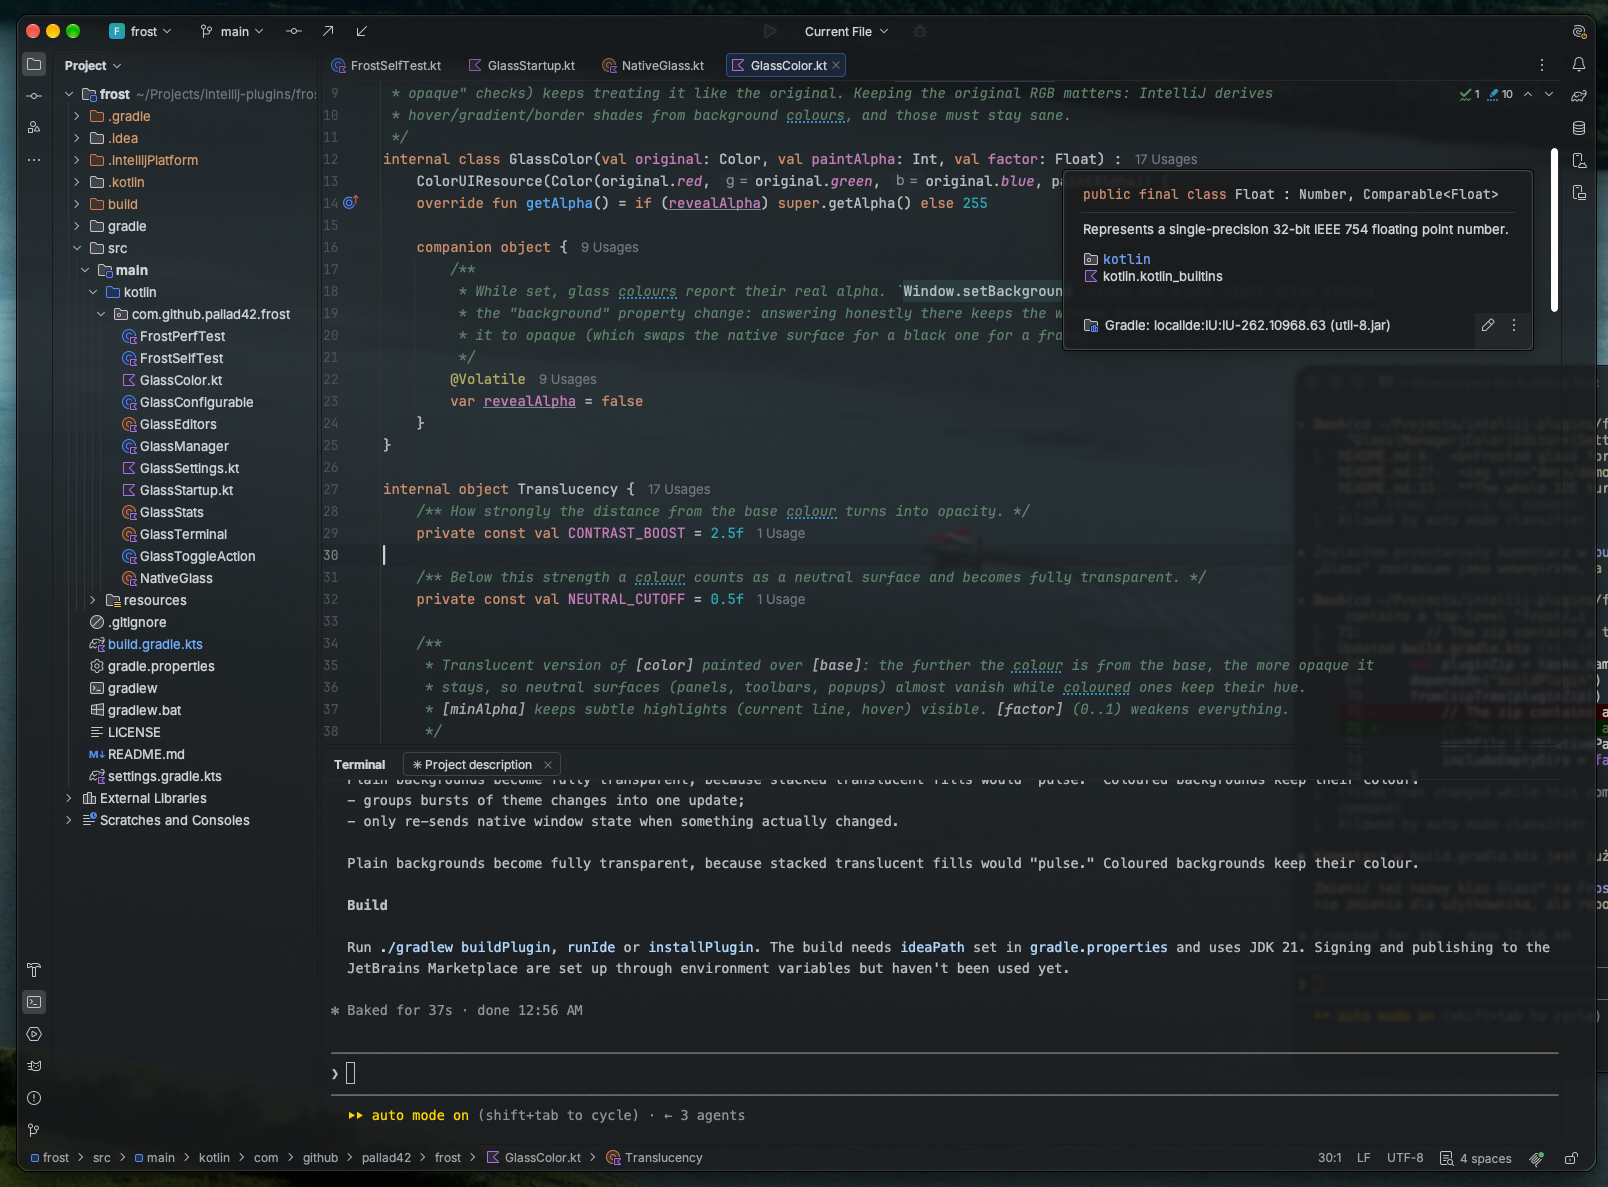
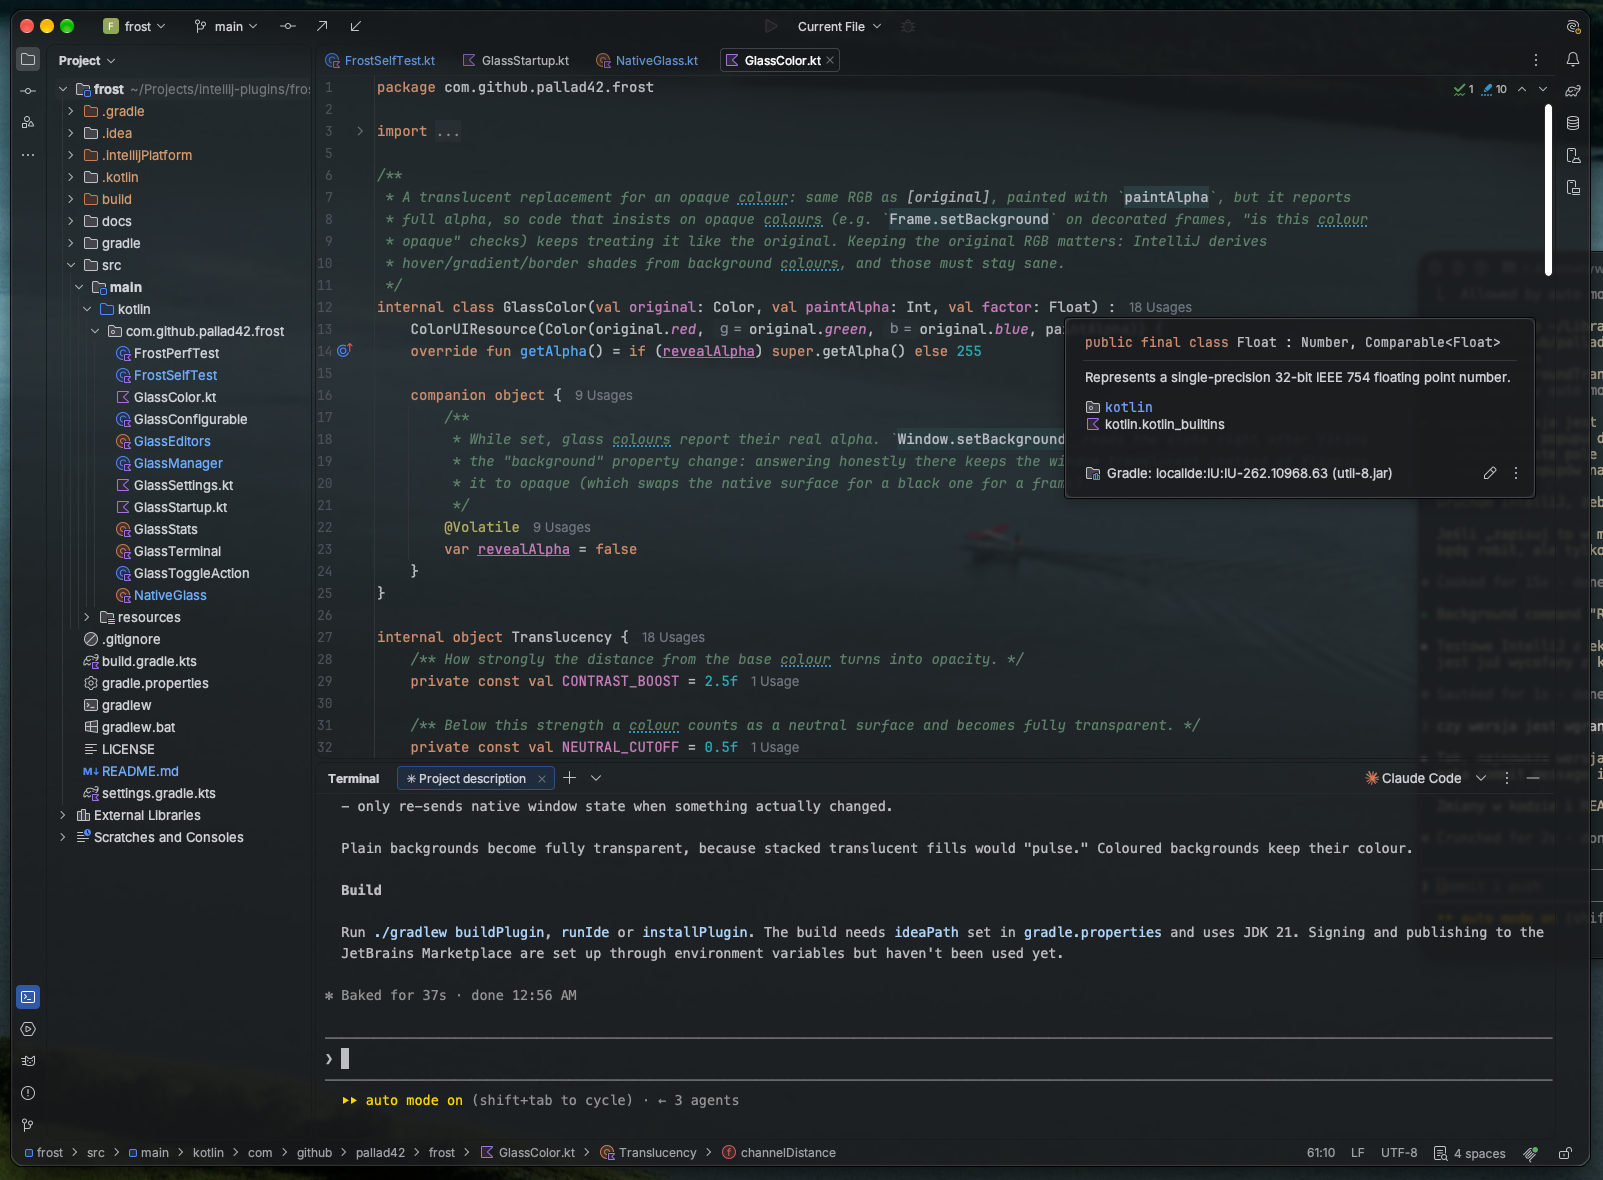
Fix popup corner, editor text fields and popup blur; README FAQ and screenshot
- Overlay rule only for the window's root layered pane: the documentation popup's corner
  toolbar was treated as an overlay and got a solid patch.
- Editor text fields (commit message, search) force a solid background after creation:
  make it translucent again right after they finish setting up.
- Popups: the blur can only be set once the window is on screen; re-apply when shown.
- Self-test also opens Quick Documentation and dumps popup component trees.
- README: FAQ on Markdown preview and toolbar project gradient, drop window outline entry,
  new screenshot.

diff --git a/src/main/kotlin/com/github/pallad42/frost/FrostSelfTest.kt b/src/main/kotlin/com/github/pallad42/frost/FrostSelfTest.kt
@@ -2,12 +2,14 @@ package com.github.pallad42.frost
 
 import com.intellij.codeInsight.hint.HintManager
 import com.intellij.notification.NotificationGroupManager
+import com.intellij.openapi.actionSystem.ActionManager
 import com.intellij.notification.NotificationType
 import com.intellij.openapi.application.EDT
 import com.intellij.openapi.diagnostic.logger
 import com.intellij.openapi.editor.Editor
 import com.intellij.openapi.fileEditor.FileEditorManager
 import com.intellij.openapi.fileEditor.OpenFileDescriptor
+import com.intellij.openapi.project.DumbService
 import com.intellij.openapi.project.Project
 import com.intellij.openapi.project.guessProjectDir
 import com.intellij.openapi.startup.ProjectActivity
@@ -19,7 +21,12 @@ import com.intellij.ui.awt.RelativePoint
 import kotlinx.coroutines.Dispatchers
 import kotlinx.coroutines.delay
 import kotlinx.coroutines.withContext
+import java.awt.Component
+import java.awt.Container
+import java.awt.Frame
 import java.awt.Point
+import java.awt.Window
+import javax.swing.JComponent
 
 /**
  * Development aid, off unless the IDE runs with `-Dfrost.selftest=true` (`./gradlew runIde -Pfrost.selftest`):
@@ -31,6 +38,7 @@ class FrostSelfTest : ProjectActivity {
     override suspend fun execute(project: Project) {
         if (System.getProperty("frost.selftest") != "true") return
         delay(STEP_MS * 3)
+        DumbService.getInstance(project).waitForSmartMode()  // quick documentation needs indexes
         val editor = withContext(Dispatchers.EDT) { openEditor(project) } ?: return
         val steps = listOf<Pair<String, () -> Unit>>(
             "notification balloon" to {
@@ -51,6 +59,8 @@ class FrostSelfTest : ProjectActivity {
                     .show(editor.contentComponent) { _, _ -> Point(300, 200) }
             },
             "message popup" to { JBPopupFactory.getInstance().createMessage("Message popup over the code").showInBestPositionFor(editor) },
+            "quick documentation" to { showQuickDoc(project) },
+            "dump popup windows" to { dumpPopupWindows() },
         )
         for ((name, show) in steps) {
             withContext(Dispatchers.EDT) {
@@ -61,6 +71,35 @@ class FrostSelfTest : ProjectActivity {
             delay(STEP_MS)
         }
         log.info("Frost selftest: done")
+    }
+
+    /** Quick Documentation for `Float` in GlassColor.kt, like hovering it. */
+    private fun showQuickDoc(project: Project) {
+        val file = project.guessProjectDir()?.findFileByRelativePath("src/main/kotlin/com/github/pallad42/frost/GlassColor.kt") ?: return
+        val text = String(file.contentsToByteArray())
+        val offset = text.indexOf("Float)").takeIf { it >= 0 } ?: return
+        val docEditor = FileEditorManager.getInstance(project).openTextEditor(OpenFileDescriptor(project, file, offset), true) ?: return
+        val action = ActionManager.getInstance().getAction("QuickJavaDoc") ?: return
+        ActionManager.getInstance().tryToExecute(action, null, docEditor.contentComponent, "frost-selftest", true)
+    }
+
+    /** Logs every visible popup window's component tree: class, own background (real alpha) and opacity. */
+    private fun dumpPopupWindows() {
+        for (window in Window.getWindows().filter { it.isShowing && it !is Frame }) {
+            val sb = StringBuilder("Frost selftest: window ${window.javaClass.name} ${window.width}x${window.height}\n")
+            fun walk(c: Component, depth: Int) {
+                val bg = if (c.isBackgroundSet) c.background else null
+                val alpha = (bg as? GlassColor)?.paintAlpha ?: bg?.alpha
+                sb.append("  ".repeat(depth)).append(c.javaClass.name.substringAfterLast('.'))
+                    .append(" ${c.width}x${c.height}")
+                    .append(if (bg != null) " bg=#%06x a=%d".format(bg.rgb and 0xffffff, alpha) else "")
+                    .append(if (c is JComponent && c.isOpaque) " opaque" else "")
+                    .append('\n')
+                if (c is Container) c.components.forEach { walk(it, depth + 1) }
+            }
+            walk(window, 0)
+            log.info(sb.toString())
+        }
     }
 
     private fun openEditor(project: Project): Editor? {

diff --git a/src/main/kotlin/com/github/pallad42/frost/GlassManager.kt b/src/main/kotlin/com/github/pallad42/frost/GlassManager.kt
@@ -34,6 +34,7 @@ import java.lang.invoke.MethodType
 import java.util.WeakHashMap
 import javax.swing.JComponent
 import javax.swing.JLayeredPane
+import javax.swing.JRootPane
 import javax.swing.UIManager
 
 /**
@@ -124,7 +125,15 @@ class GlassManager : Disposable {
             is ContainerEvent -> if (event.id == ContainerEvent.COMPONENT_ADDED) GlassStats.measure("componentAdded") { glassifyTree(event.child, config) }
             is WindowEvent -> if (event.id == WindowEvent.WINDOW_ACTIVATED) refreshNative(event.window, config)
             is ComponentEvent -> when (event.id) {
-                ComponentEvent.COMPONENT_SHOWN -> dropLoadingSnapshot(event.component)
+                ComponentEvent.COMPONENT_SHOWN -> {
+                    dropLoadingSnapshot(event.component)
+                    // Popups get the blur only once they are on screen; AppKit orders them in asynchronously,
+                    // so check again right after showing and a moment later.
+                    (event.component as? Window)?.let { window ->
+                        refreshNative(window, config)
+                        javax.swing.Timer(120) { active?.let { refreshNative(window, it) } }.apply { isRepeats = false }.start()
+                    }
+                }
                 // JBR may recreate the native layer on resize or when moving to another display.
                 ComponentEvent.COMPONENT_RESIZED, ComponentEvent.COMPONENT_MOVED ->
                     (event.component as? Window)?.let { refreshNative(it, config) }
@@ -139,9 +148,14 @@ class GlassManager : Disposable {
         EditorFactory.getInstance().addEditorFactoryListener(object : EditorFactoryListener {
             override fun editorCreated(event: EditorFactoryEvent) {
                 active?.let { GlassStats.measure("editorCreated") { GlassEditors.apply(event.editor, it) } }
-                // The terminal installs its own highlighter right after creating the editor.
+                // Owners finish setting the editor up right after creating it: the terminal installs its own
+                // highlighter, text fields (commit message, search) force their own solid background.
                 ApplicationManager.getApplication().invokeLater {
-                    active?.let { if (!event.editor.isDisposed) GlassTerminal.apply(event.editor, it) }
+                    active?.let {
+                        if (event.editor.isDisposed) return@let
+                        GlassTerminal.apply(event.editor, it)
+                        GlassEditors.keepBackgroundTranslucent(event.editor, it)
+                    }
                 }
             }
         }, this)
@@ -334,6 +348,9 @@ class GlassManager : Disposable {
      */
     private fun isOverlayRoot(component: JComponent): Boolean {
         val pane = component.parent as? JLayeredPane ?: return false
+        // Only the window's own layered pane: IntelliJ also uses layered panes for layout (e.g. the corner toolbar
+        // of documentation popups), and those children are part of the surface, not overlays.
+        if (pane.parent !is JRootPane) return false
         return pane.getLayer(component) >= JLayeredPane.PALETTE_LAYER
     }
 

diff --git a/src/main/kotlin/com/github/pallad42/frost/NativeGlass.kt b/src/main/kotlin/com/github/pallad42/frost/NativeGlass.kt
@@ -45,7 +45,9 @@ internal object NativeGlass {
             Foundation.invoke(nsWindow, "setBackgroundColor:", Foundation.invoke("NSColor", "clearColor"))
             val cgTint = setContentLayerTint(nsWindow, tint)
             setBlurRadius(nsWindow, blurRadius)
-            applied[key] = Applied(layer?.toLong() ?: 0L, cgTint, tint.rgb, blurRadius)
+            // Only remember windows that are really on screen; others get re-applied once they are shown.
+            if (isOnScreen(nsWindow)) applied[key] = Applied(layer?.toLong() ?: 0L, cgTint, tint.rgb, blurRadius)
+            else applied.remove(key)
             if (LOG.isDebugEnabled) LOG.debug("Frost: ${window.javaClass.simpleName} ${if (last == null) "glass applied" else "glass re-applied"} ${describe(nsWindow)}")
         }
     }
@@ -136,6 +138,9 @@ internal object NativeGlass {
         if (windowNumber <= 0) return
         blur.invokeInt(arrayOf(connection.invokeInt(emptyArray()), windowNumber, radius.coerceAtLeast(0)))
     }
+
+    /** A window that is not on screen yet has no window-server number: the blur cannot be set on it yet. */
+    private fun isOnScreen(nsWindow: ID) = Foundation.invoke(nsWindow, "windowNumber").toInt() > 0
 
     private fun cgFunction(name: String): Function? {
         for (path in LIBRARIES) {

diff --git a/src/main/kotlin/com/github/pallad42/frost/GlassEditors.kt b/src/main/kotlin/com/github/pallad42/frost/GlassEditors.kt
@@ -61,6 +61,13 @@ internal object GlassEditors {
         GlassTerminal.apply(ex, config)
     }
 
+    /** An owner (e.g. EditorTextField) replaced the background with a solid one: make that one translucent too. */
+    fun keepBackgroundTranslucent(editor: Editor, config: GlassConfig) {
+        val ex = editor as? EditorEx ?: return
+        val background = ex.backgroundColor
+        if (background.alpha == 255) ex.setBackgroundColor(Translucency.withAlphaPercent(background, config.editorOpacity))
+    }
+
     fun restore(editor: Editor) {
         val ex = editor as? EditorEx ?: return
         GlassTerminal.restore(ex)

diff --git a/README.md b/README.md
@@ -91,17 +91,25 @@ backgrounds and fights with Frost.
 </details>
 
 <details>
+<summary><b>Why is the Markdown preview not transparent?</b></summary>
+
+The preview is rendered by an embedded browser (JCEF) that paints its own opaque page background, which plugins
+cannot change. The Markdown source editor next to it is translucent as usual.
+</details>
+
+<details>
+<summary><b>The project colour gradient in the toolbar ends with a hard edge.</b></summary>
+
+With <kbd>Appearance</kbd> → <b>Use project colors in main toolbar</b>, the IDE paints that gradient partly from
+pre-rendered, fixed-size textures without transparency, so it cannot fade out into the glass. Turn the option off
+for a clean frosted toolbar.
+</details>
+
+<details>
 <summary><b>Scrolling feels slightly slower on a big maximised window.</b></summary>
 
 A translucent window has to be composited by macOS together with everything behind it, on every frame; the cost
 grows with the window size and the blur radius. Lowering <b>Blur radius</b> (or setting it to 0) helps the most.
-</details>
-
-<details>
-<summary><b>Why is there a thin dark outline around the window?</b></summary>
-
-That is the native macOS window border, drawn for every window in dark mode (Ghostty has it too). On an opaque window
-it blends in; on glass it shows.
 </details>
 
 ## How it works
